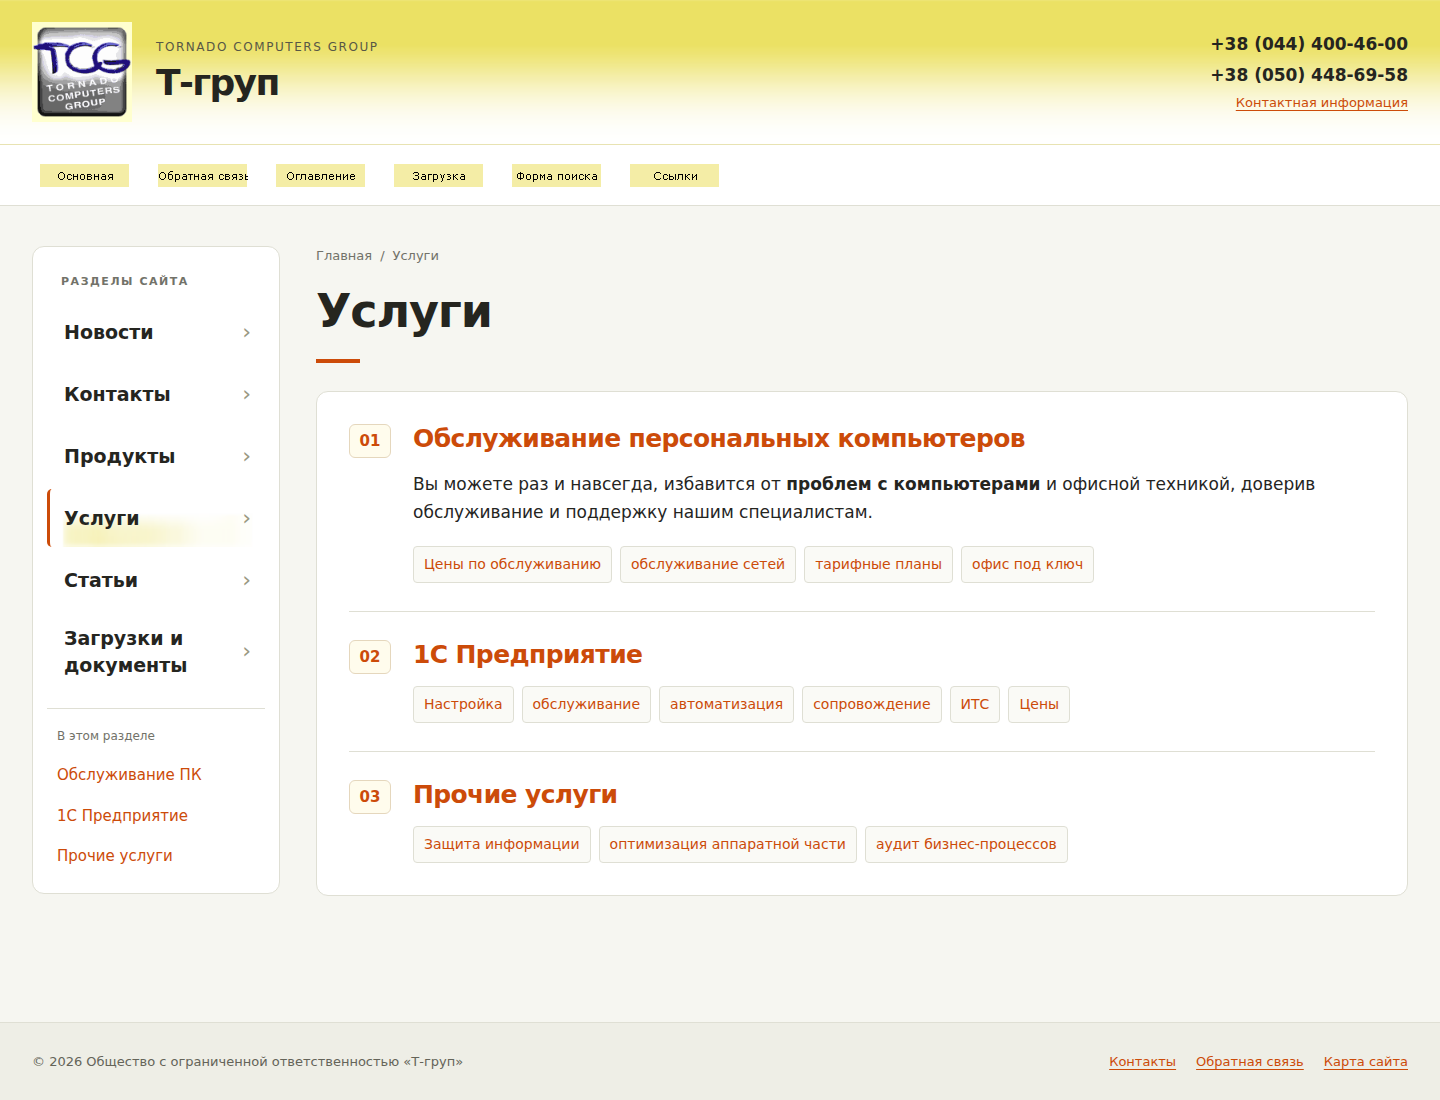
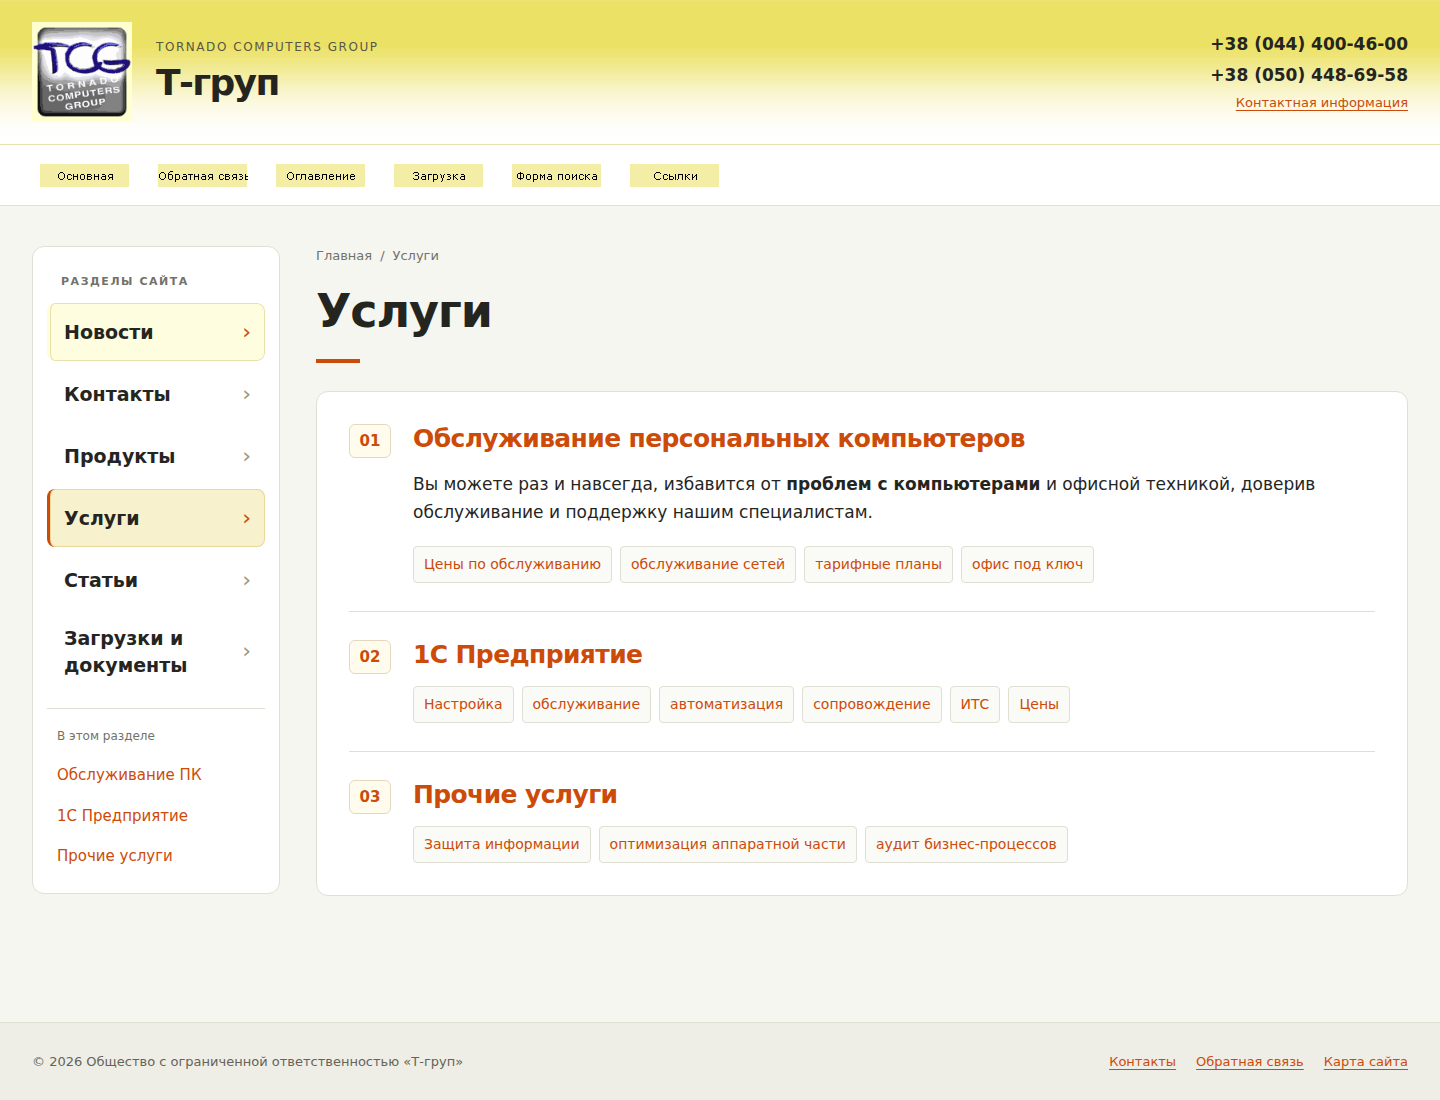
Refine sidebar highlights with soft yellow fills and a clear active section

Changed region(s): [[0.0312, 0.4327, 0.1875, 0.4945], [0.0312, 0.2782, 0.1875, 0.34]]

diff --git a/themes/site.css b/themes/site.css
@@ -42,10 +42,11 @@ body:has(>[data-gjs-type="wrapper"].site-page){margin:0}
 .sidebar-caption{font-size:11px;letter-spacing:.14em;text-transform:uppercase;font-weight:700;color:var(--muted);padding:12px 14px;margin:0!important}
 .main-navigation,.section-navigation ul{list-style:none;margin:0;padding:0}
 .main-navigation li{margin:0 0 4px}
-.main-navigation a{display:flex;align-items:center;justify-content:space-between;gap:8px;min-height:58px;padding:12px 14px;border-left:3px solid transparent;border-radius:5px;color:var(--ink)!important;font-size:19px;font-weight:550;line-height:1.4;text-decoration:none}
+.main-navigation a{display:flex;align-items:center;justify-content:space-between;gap:8px;min-height:58px;padding:12px 14px;border-left:3px solid transparent;border-radius:8px;color:var(--ink)!important;font-size:19px;font-weight:550;line-height:1.4;text-decoration:none;transition:background-color .15s ease,box-shadow .15s ease}
 .main-navigation a::after{content:'›';font-size:22px;font-weight:400;color:#999881}
-.main-navigation a:hover,.main-navigation a:focus-visible,.main-navigation a[aria-current="page"]{background:#fff url('/themes/-1-/nav_vert_over_spring.gif') no-repeat center/100% 100%}
-.main-navigation .section-active{border-left-color:var(--link)}
+.main-navigation a:hover,.main-navigation a:focus-visible{background:#fffddf;box-shadow:inset 0 0 0 1px #e7e0a7}
+.main-navigation a.section-active,.main-navigation a[aria-current="page"]{background:#f8f1cd;border-left-color:var(--link);box-shadow:inset 0 0 0 1px #e6d999}
+.main-navigation a:hover::after,.main-navigation a:focus-visible::after,.main-navigation a.section-active::after{color:var(--link)}
 .main-navigation a[aria-current="page"]{font-weight:700}
 .section-navigation{border-top:1px solid var(--rule);margin:18px 0 0;padding:18px 10px 0}
 .section-navigation>p{font-size:12px;color:var(--muted);margin-bottom:10px}
@@ -159,5 +160,5 @@ body:has(>[data-gjs-type="wrapper"].site-page){margin:0}
 .document-content{font-family:Arial,sans-serif;font-size:17px}
 @media(max-width:1100px){.site-shell{grid-template-columns:218px minmax(0,1fr);gap:24px}.site-sidebar{padding:10px}.main-navigation a{font-size:18px;padding-inline:12px}.direction-grid{grid-template-columns:repeat(2,minmax(0,1fr))}.page-home h1{font-size:44px}.page-body,.home-section{padding:26px}.header-inner,.utility-links{padding-inline:24px}.site-shell{padding-inline:24px}}
 @media(max-width:760px){.site-page{font-size:16px}.header-inner{grid-template-columns:64px minmax(0,1fr);gap:12px 18px;padding:18px 20px}.site-logo img{width:64px;height:64px}.site-brand p{font-size:10px;letter-spacing:.08em}.site-brand span{font-size:30px}.header-contacts{grid-column:1/-1;flex-direction:row;justify-content:flex-start;align-items:center;flex-wrap:wrap;gap:4px 18px}.header-contacts a[href^="tel:"]{font-size:13px}.header-contacts a:last-child{font-size:12px}.utility-links{gap:0 4px;padding:6px 12px}.utility-navigation a{padding:4px 8px}.site-shell{display:block;padding:20px 16px 40px}.site-sidebar{position:static;max-height:none;margin-bottom:28px;padding:0;overflow:visible}.sidebar-caption{display:none}.menu-toggle{display:flex!important;width:100%;justify-content:space-between;background:#fffddf;border:0;padding:16px 18px;font-weight:600}.main-navigation{display:grid;grid-template-columns:1fr 1fr;gap:4px;padding:10px}.main-navigation a{font-size:17px;padding:12px 8px;min-height:54px}.main-navigation li{margin:0}.section-navigation{margin:8px 18px 18px;padding:16px 0 0}.page-heading{margin-bottom:24px}.site-page h1{font-size:34px}.page-heading::after{margin-top:16px}.page-body,.home-section{padding:22px 18px}.site-page h2{font-size:23px}.site-footer{display:block;padding:26px 20px}.site-footer nav{margin-top:14px;gap:14px}.breadcrumbs{font-size:12px}.site-content td,.site-content th{padding:10px}.table-scroll{margin-block:18px}.contact-actions>*{width:100%;text-align:center}.page-home h1{font-size:38px}.direction-grid{grid-template-columns:1fr;gap:10px}.direction-grid>li,.direction-grid>li:first-child{grid-column:auto;font-size:21px;min-height:130px;padding:20px;gap:14px}.home-process,.contact-grid{grid-template-columns:1fr}.page-links,.catalog-grid{grid-template-columns:1fr}.page-links a,.catalog-grid a{min-height:84px;padding:18px}.service-sections>section{padding-left:0;padding-top:50px}.service-sections>section::before{top:0}.news-list li{grid-template-columns:1fr;gap:8px}.news-list a{font-size:17px}}
-@media(prefers-reduced-motion:reduce){html{scroll-behavior:auto}}
+@media(prefers-reduced-motion:reduce){html{scroll-behavior:auto}.main-navigation a{transition:none}}
 @media print{.site-sidebar,.utility-navigation,.site-footer,.breadcrumbs,.skip-link,.document-toolbar{display:none!important}.site-shell{display:block;max-width:none;padding:0}.site-header{background:none}.header-inner{padding:0 0 20px;min-height:80px}.site-logo img{width:60px;height:60px}.table-scroll{overflow:visible;border:0}.site-page{font-size:11pt;background:#fff}.page-body,.home-section{padding:0;border:0}.site-content table{font-size:10pt}.site-content a{color:#111}.site-content td{background:#fff!important}.page-heading::after{display:none}}

diff --git a/README.md b/README.md
@@ -42,8 +42,10 @@
 
 Збережено логотип, білі блоки вмісту, помаранчеві посилання, графіку жовтої шапки та
 шість верхніх GIF-кнопок 90×25 px. Ліве меню тепер має живі написи 18–19 px,
-кнопки заввишки щонайменше 58 px на комп’ютері та оригінальне жовте підсвічування
-`nav_vert_over_spring.gif`. На телефоні меню відкривається кнопкою «Разделы сайта»;
+кнопки заввишки щонайменше 58 px на комп’ютері. При наведенні з’являється м’який
+жовтий фон із тонким контуром; поточний розділ має насиченіший фон та помаранчеву
+смужку зліва. Підсвічування намальоване CSS, без старої розтягнутої GIF-картинки.
+На телефоні меню відкривається кнопкою «Разделы сайта»;
 без JavaScript воно залишається доступним. Основний текст — 17 px.
 Шапка з жовтою графікою займає всю ширину екрана; обмежується лише ширина
 її внутрішнього вмісту. Головна має окремі блоки напрямів роботи, опис автоматизації
